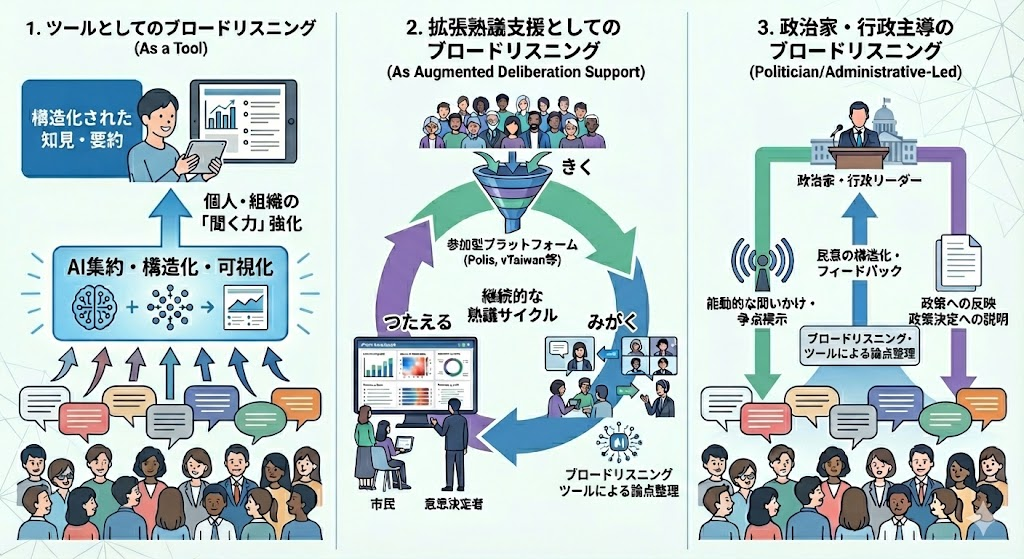
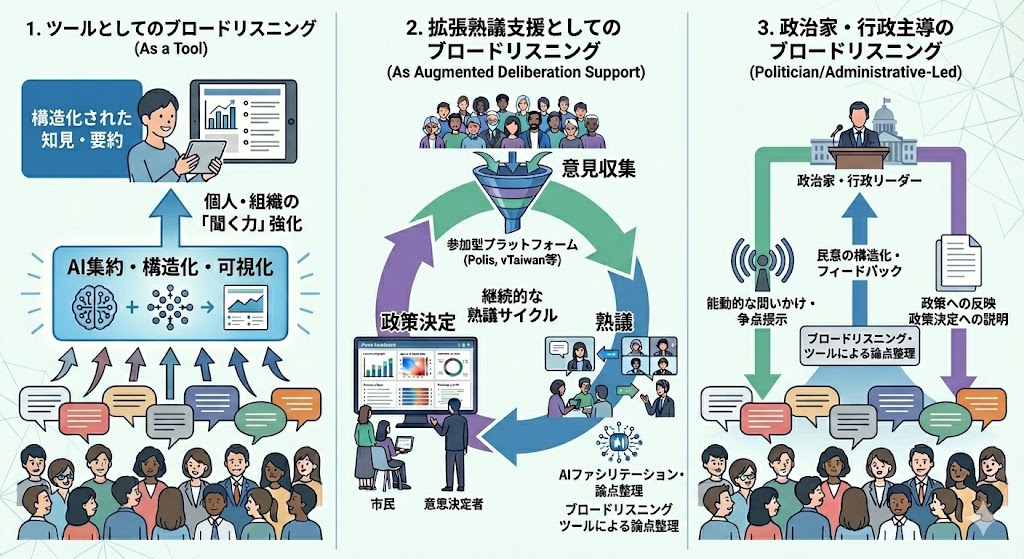
fix: 第1章のPlurality引用を修正し、ブロードリスニングの多義性を明示
- Pluralityにおけるブロードリスニングの位置づけを「方法論」から「実践」に修正
- ブロードリスニングの多義性（課題・ツール・拡張熟議の一部・政策検討プロセス）を明示
- SNSからの意見集約というイメージの広がりについて言及を追加
- Pluralityの水割りセクションの接続詞・構成を改善
- 三つの形態の図を更新

diff --git a/01_ブロードリスニングとは何か？.md b/01_ブロードリスニングとは何か？.md
@@ -88,7 +88,7 @@
 
 ### 拡張熟議支援としてのブロードリスニング
 
-ツールとしてのブロードリスニングが独立した概念として注目されるようになったのは、「拡張熟議（augmented deliberation）」のサイクルに組み込む実践が成功を収めたからです。書籍Pluralityでは、ブロードリスニングを拡張熟議を実現するための方法論として位置づけています。
+ツールとしてのブロードリスニングが独立した概念として注目されるようになったのは、「拡張熟議（augmented deliberation）」のサイクルに組み込む実践が成功を収めたからです。書籍Pluralityでも、「拡張熟議」の章でブロードリスニングを拡張熟議を支える実践として取り上げています。
 
 ![熟議民主主義の系譜とブロードリスニング](images/01_jukugi_minshushugi_keifu.png)
 
@@ -134,11 +134,15 @@ TODO: この図をブラッシュアップする https://codezine.jp/article/det
 
 市民同士が直接議論し合う拡張熟議とは形態が異なりますが、政治家や行政が能動的に市民の声を聴いて応答するこのスタイルは、熟議民主主義の精神に沿うものです。詳細は4章以降の事例編で解説します。
 
+また、日本国内では、主要政党をはじめ多くの組織がブロードリスニングツールを採用し、意見集約・政策検討を行うようになった結果、「ブロードリスニングとはSNSから意見集約を行い、政策決定に生かすことである」というイメージが急速に広がりました。
+
 ### 本書の目的：Pluralityの水割り
 
-なお、書籍Pluralityにおいて「拡張熟議」の章はわずか19ページであり、「ブロードリスニング」という語はその章の中で3回しか登場しません[^2]。同章の中では、Talk to The Cityと2024年の東京都知事選における安野貴博の活動を例として挙げるにとどまっており、ブロードリスニングとは何かについての詳細な説明はありません。また、同書は極めて濃密であり、その内容を理解するには多大な前提知識を要します。
+書籍Pluralityにおいて「拡張熟議」の章はわずか19ページであり、「ブロードリスニング」という語はその章の中で3回しか登場しません[^2]。同章の中では、Talk to The Cityと2024年の東京都知事選における安野貴博の活動を例として挙げるにとどまっており、ブロードリスニングとは何かについての詳細な説明はありません。しかも同書は極めて濃密で抽象的あり、その内容を理解するには多大な前提知識を要します。
 
-そのため、本書では改めてブロードリスニングの全体像を整理し、また2024年から2025年において日本で行われたブロードリスニングの実例を紹介することで、実例をもってブロードリスニングを理解できるようにしたいと考えています。
+加えて、これまで述べたように「ブロードリスニング」は多義的な言葉です。課題であり、ツールであり、拡張熟議の一部であり、政治家・行政主導の政策検討プロセスでもある。Pluralityの同章にもこれらの側面は含まれていますが、多面性が明示的に整理されているわけではなく、19ページの濃密な議論の中に散在しています。何しろこの本を書いている筆者ですら、執筆しながらこの言葉の多義性にようやく気づいたくらいなのですから。
+
+そこで本書では、改めてブロードリスニングの全体像を整理し、2024年から2025年において日本で行われた実例を紹介することで、実例をもってブロードリスニングを理解できるようにしたいと考えています。
 
 砕けた言い方をすると「Pluralityは天才たちの脳内で長年熟成された知的ウィスキーの原液であり、度数が強すぎて一般人には飲めない代物なので、水割りを作ろう」です。
 
